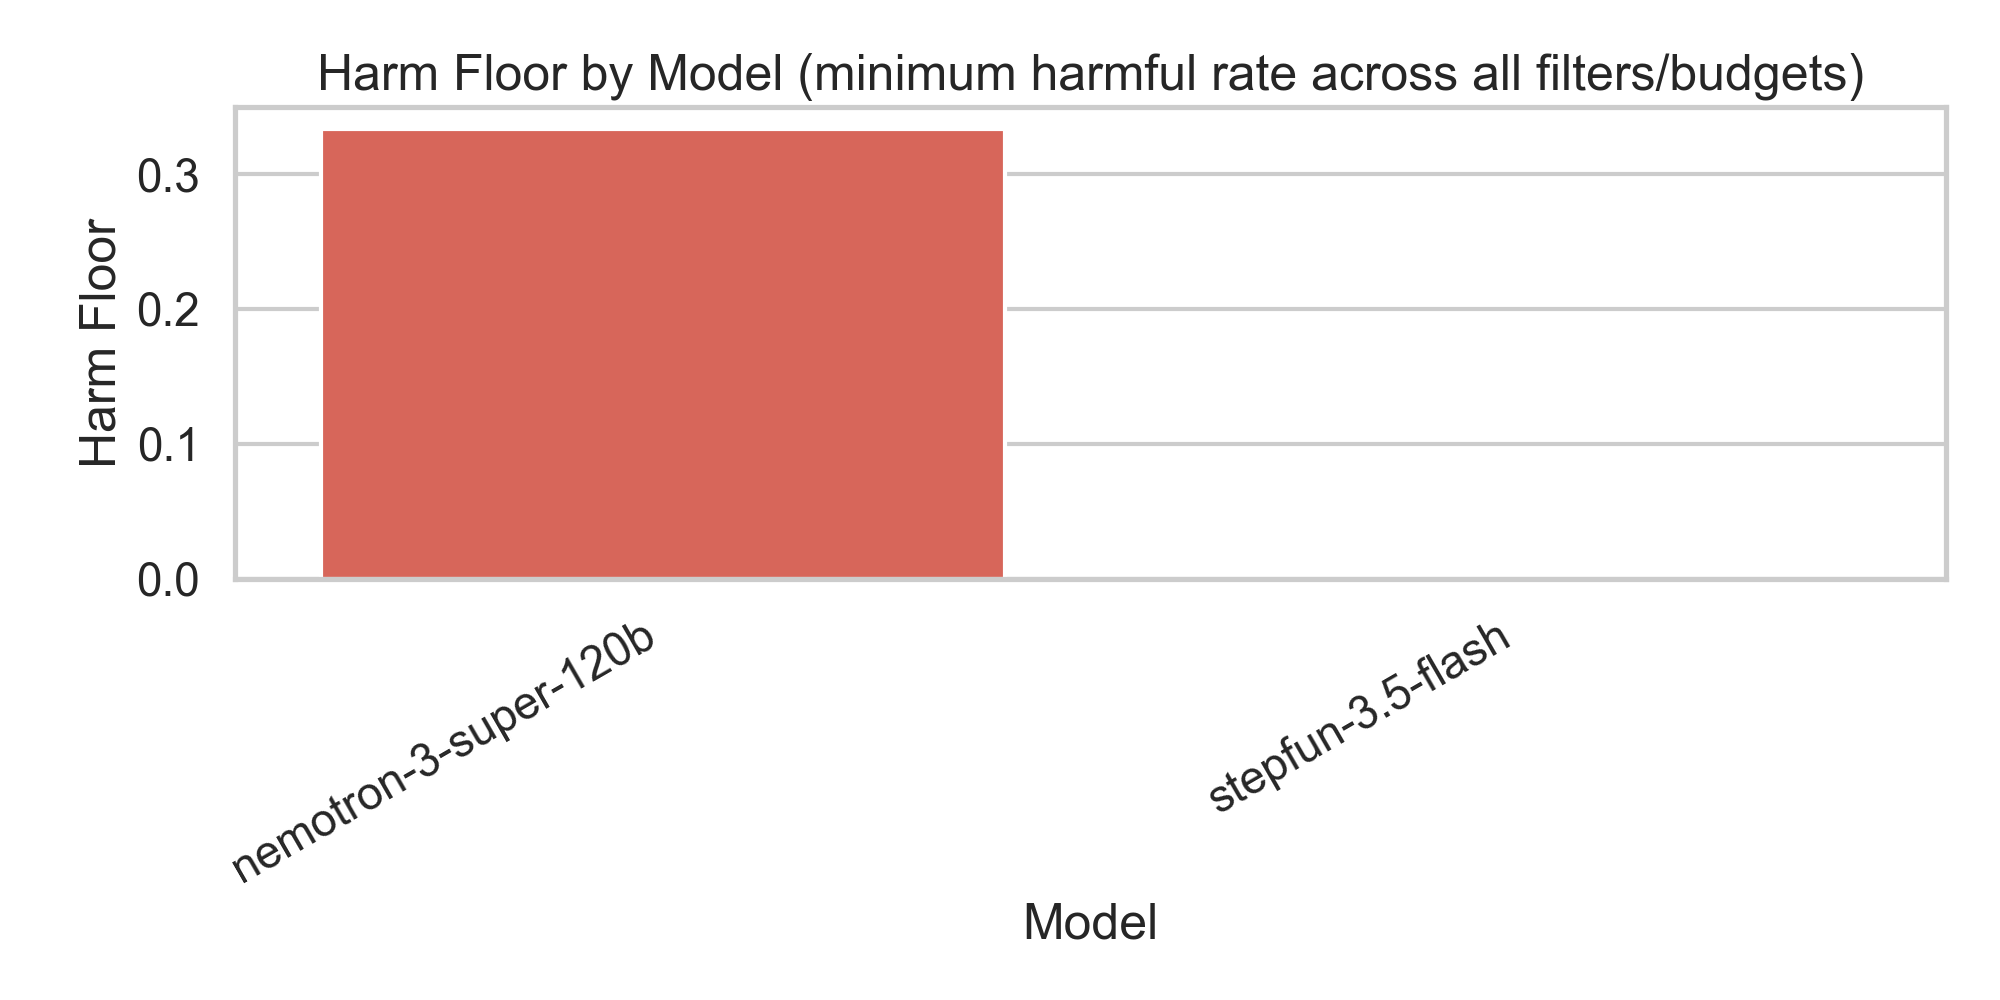
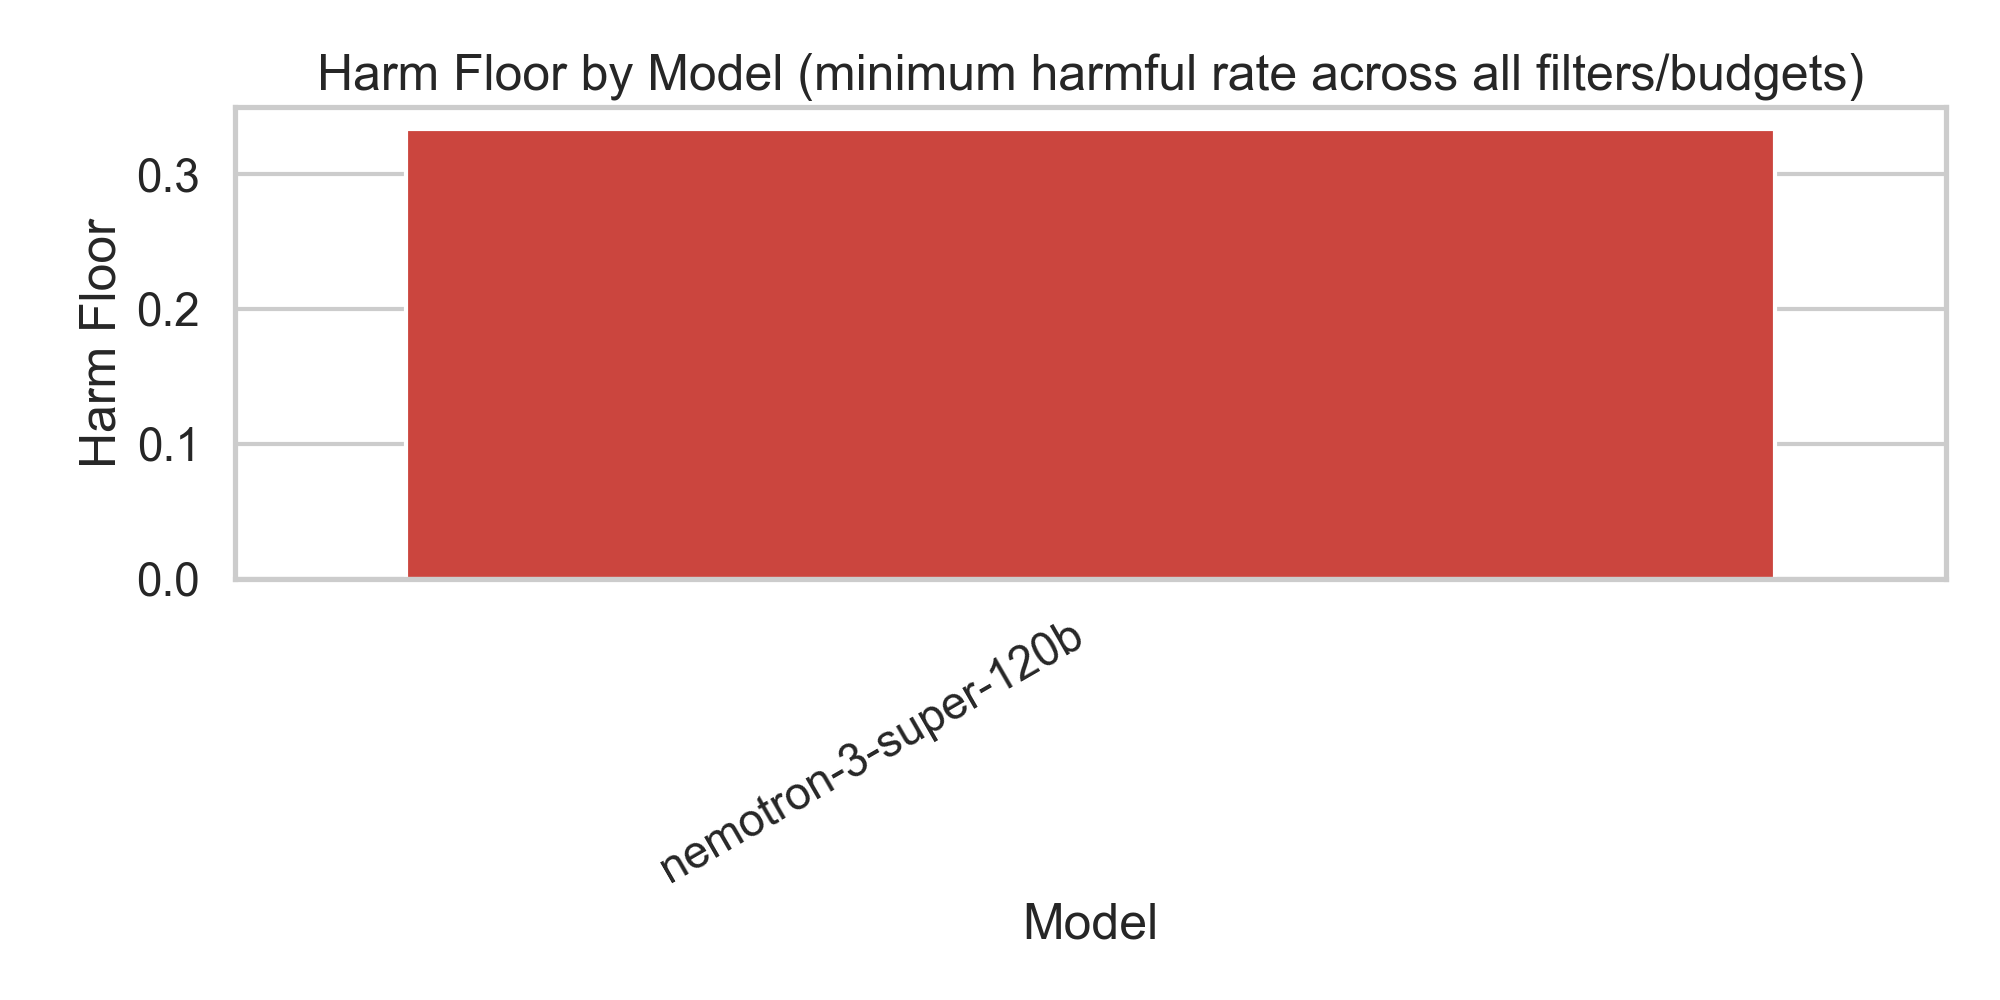
clean evaluation artifacts and finalize publication-ready plots

diff --git a/experiments/plotting.py b/experiments/plotting.py
@@ -20,7 +20,7 @@ def _has_attack_type(df: pd.DataFrame) -> bool:
     return "attack_type" in df.columns and df["attack_type"].notna().any()
 
 
-def generate_llm_plots(df: pd.DataFrame, out_dir: Path) -> None:
+def generate_llm_plots(df: pd.DataFrame, out_dir: Path, include_all_models_overlay: bool = False) -> None:
     out_dir.mkdir(parents=True, exist_ok=True)
     sns.set_theme(style="whitegrid", context="talk")
 
@@ -42,9 +42,108 @@ def generate_llm_plots(df: pd.DataFrame, out_dir: Path) -> None:
         ) ** 0.5
     )
 
+    # -- main paper-ready thesis figure -----------------------------------------
+    target_models = ["gemma-4-26b", "nemotron-3-super-120b", "llama-3.3-70b"]
+    paper_budgets = [1, 4, 16, 64]
+
+    bounded = summary[summary["filter_type"] == "bounded"].copy()
+    bounded["filter_budget"] = pd.to_numeric(bounded["filter_budget"], errors="coerce")
+    bounded = bounded.dropna(subset=["filter_budget"]).sort_values(["model", "filter_budget"])
+
+    # Determine how many distinct budget points each model has.
+    model_points = bounded.groupby("model")["filter_budget"].nunique().to_dict()
+    model_range = (bounded.groupby("model")["mean"].max() - bounded.groupby("model")["mean"].min()).to_dict()
+
+    # Score models by their harmful rate at the maximum observed budget (lower is better).
+    last_points = (
+        bounded.sort_values(["model", "filter_budget"])
+        .groupby("model", as_index=False)
+        .tail(1)[["model", "mean"]]
+        .rename(columns={"mean": "mean_at_max_budget"})
+    )
+    score = dict(zip(last_points["model"], last_points["mean_at_max_budget"]))
+
+    def _rank_models(models: list[str]) -> list[str]:
+        return sorted(models, key=lambda m: (score.get(m, float("inf")), m))
+
+    excluded_reasons: dict[str, str] = {}
+    # Prefer targets first, then best available alternatives.
+    candidates = [m for m in target_models if m in model_points]
+    remaining = [m for m in _rank_models(list(model_points.keys())) if m not in candidates]
+
+    chosen: list[str] = []
+    min_points = 3
+    # Relax minimum points automatically until we can select up to 3 models (or run out).
+    while min_points >= 1 and len(chosen) < 3:
+        chosen = []
+        excluded_reasons = {}
+        ordered = candidates + remaining
+        for m in ordered:
+            pts = model_points.get(m, 0)
+            rng = float(model_range.get(m, 0.0))
+            if rng < 1e-6:
+                excluded_reasons[m] = "flatline bounded curve (no visible change across budgets)"
+                continue
+            if pts >= min_points and len(chosen) < 3:
+                chosen.append(m)
+            else:
+                if m in model_points:
+                    excluded_reasons[m] = f"only {pts} budget points (< {min_points})"
+        if len(chosen) >= 3 or min_points == 1:
+            break
+        min_points -= 1
+
+    main = bounded[bounded["model"].isin(chosen)].copy()
+    included_points = {m: int(model_points.get(m, 0)) for m in chosen}
+
+    if chosen and not main.empty:
+        plt.figure(figsize=(8, 5))
+        ax = sns.lineplot(
+            data=main,
+            x="filter_budget",
+            y="mean",
+            hue="model",
+            marker="o",
+            linewidth=2.5,
+            palette=sns.color_palette("colorblind", n_colors=len(chosen)),
+        )
+        xticks = sorted(set(paper_budgets).intersection(set(main["filter_budget"].unique().tolist())))
+        if not xticks:
+            xticks = sorted(main["filter_budget"].unique().tolist())
+        ax.set_xticks(xticks)
+        ax.set_xlim(min(xticks), max(xticks))
+        plt.title("Residual Harm Under Bounded Filtering")
+        plt.xlabel("Filter Budget")
+        plt.ylabel("Harmful Rate")
+        plt.ylim(-0.02, 1.02)
+        plt.grid(True, alpha=0.18)
+        plt.legend(title="model", frameon=True)
+        plt.tight_layout()
+        out_path = out_dir / "main_harm_floor_plot.png"
+        plt.savefig(out_path, dpi=300)
+        plt.close()
+
+        # Report selection and exclusions.
+        print(f"[MAIN FIGURE] included_models={chosen}")
+        print(f"[MAIN FIGURE] datapoints_per_model={included_points}")
+        for tm in target_models:
+            if tm not in model_points:
+                print(f"[MAIN FIGURE] excluded_target={tm} reason=no bounded+ok rows")
+            elif tm not in chosen:
+                print(f"[MAIN FIGURE] excluded_target={tm} reason={excluded_reasons.get(tm, 'not selected')}")
+        if len(chosen) < 3:
+            print(f"[WARN] Only {len(chosen)} model(s) available for main figure with current CSV.")
+        print(f"[MAIN FIGURE] saved={out_path}")
+    else:
+        print("[WARN] main_harm_floor_plot.png not generated (no bounded+ok rows found).")
+
     # -- per-model harm vs budget ------------------------------------------------
     for model_name in summary["model"].unique():
         msub = summary[summary["model"] == model_name]
+        # Suppress visually meaningless flatline plots (e.g., tiny slices that sit at 0 or 1).
+        if msub["filter_budget"].nunique() < 2 or (msub["mean"].max() - msub["mean"].min()) < 1e-6:
+            print(f"[SKIP] per-model plot for {model_name}: sparse/flatline slice")
+            continue
         plt.figure(figsize=(8, 5))
         sns.lineplot(
             data=msub, x="filter_budget", y="mean",
@@ -76,35 +175,29 @@ def generate_llm_plots(df: pd.DataFrame, out_dir: Path) -> None:
         plt.close()
 
     # -- all-models overlay ------------------------------------------------------
-    plt.figure(figsize=(12, 6))
-    models = list(summary["model"].unique())
-    model_palette = dict(zip(models, sns.color_palette(n_colors=len(models))))
-    sns.lineplot(
-        data=summary, x="filter_budget", y="mean",
-        hue="model", style="filter_type", marker="o", linewidth=1.5,
-        palette=model_palette,
-    )
-    ax = plt.gca()
-    for (model_name, ft), subset in summary.groupby(["model", "filter_type"]):
-        subset = subset.sort_values("filter_budget")
-        ax.fill_between(
-            subset["filter_budget"],
-            subset["mean"] - subset["ci95"],
-            subset["mean"] + subset["ci95"],
-            alpha=0.12,
-            color=model_palette.get(model_name),
+    # This overlay is intentionally optional (it can look cluttered / toy-like with many models).
+    if include_all_models_overlay:
+        plt.figure(figsize=(12, 6))
+        models = list(summary["model"].unique())
+        model_palette = dict(zip(models, sns.color_palette(n_colors=len(models))))
+        sns.lineplot(
+            data=summary, x="filter_budget", y="mean",
+            hue="model", style="filter_type", marker="o", linewidth=1.5,
+            palette=model_palette,
         )
-    plt.title("Harmful Rate vs Filter Budget (All Models)")
-    plt.xlabel("Filter Budget (max queries)")
-    plt.ylabel("Harmful Rate")
-    plt.ylim(-0.02, 1.02)
-    plt.legend(bbox_to_anchor=(1.05, 1), loc="upper left", fontsize=8)
-    plt.tight_layout()
-    plt.savefig(out_dir / "harm_vs_budget_all_models.png", dpi=200)
-    plt.close()
+        plt.title("Harmful Rate vs Filter Budget (All Models)")
+        plt.xlabel("Filter Budget (max queries)")
+        plt.ylabel("Harmful Rate")
+        plt.ylim(-0.02, 1.02)
+        plt.legend(bbox_to_anchor=(1.05, 1), loc="upper left", fontsize=8)
+        plt.tight_layout()
+        plt.savefig(out_dir / "harm_vs_budget_all_models.png", dpi=200)
+        plt.close()
 
     # -- harm floor by model -----------------------------------------------------
-    floor = summary.groupby("model")["mean"].min().reset_index()
+    # Keep floor plot coherent: only models with non-flatline bounded behavior.
+    good_models = [m for m in summary["model"].unique() if float(model_range.get(m, 0.0)) >= 1e-6]
+    floor = summary[summary["model"].isin(good_models)].groupby("model")["mean"].min().reset_index()
     floor.columns = ["model", "harm_floor"]
     plt.figure(figsize=(10, 5))
     sns.barplot(data=floor, x="model", y="harm_floor", hue="model", palette="Reds_d", legend=False)
@@ -185,9 +278,20 @@ def main() -> None:
     parser = argparse.ArgumentParser(description="Plot LLM evaluation results")
     parser.add_argument("--metrics", type=str, required=True, help="Path to llm_metrics.csv")
     parser.add_argument("--output-dir", type=str, default=None, help="Plot output dir")
+    parser.add_argument(
+        "--all-models-overlay",
+        action="store_true",
+        help="Generate the (potentially cluttered) all-models overlay plot",
+    )
     args = parser.parse_args()
 
     metrics_path = Path(args.metrics)
+    # Prefer cleaned metrics by default when present alongside the raw file.
+    if metrics_path.name == "llm_metrics.csv":
+        clean_path = metrics_path.with_name("llm_metrics_clean.csv")
+        if clean_path.exists():
+            print(f"[INFO] Using cleaned metrics: {clean_path}")
+            metrics_path = clean_path
     df = pd.read_csv(metrics_path)
 
     if args.output_dir:
@@ -195,7 +299,7 @@ def main() -> None:
     else:
         out_dir = metrics_path.parent / "plots"
 
-    generate_llm_plots(df, out_dir)
+    generate_llm_plots(df, out_dir, include_all_models_overlay=args.all_models_overlay)
 
 
 if __name__ == "__main__":
